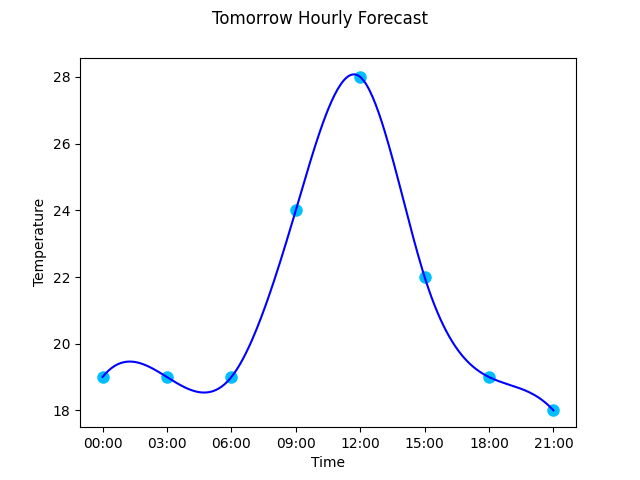
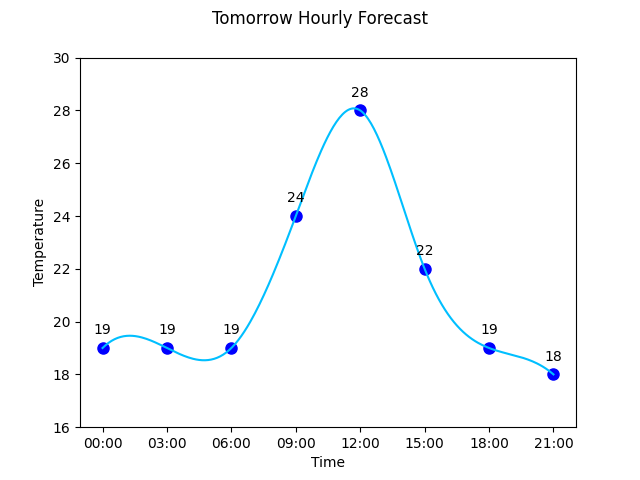
Update forecast line charts in more beautiful way.

diff --git a/image_converter.py b/image_converter.py
@@ -31,9 +31,17 @@ class ImageConverter:
         spl = make_interp_spline(idx, self.data['temperature'], k=3)
         smooth = spl(xnew)
 
-        plt.plot(self.data['time'], self.data['temperature'], 'o', color='#00BFFF', markersize=8)
-        plt.plot(xnew, smooth, color='blue', linestyle='solid')
+        plt.plot(self.data['time'], self.data['temperature'], 'o', color='blue', markersize=8)
+        for x, y in zip(self.data['time'], self.data['temperature']):
+            label = y
+            plt.annotate(label, (x, y),
+                         xycoords="data",
+                         textcoords="offset points",
+                         xytext=(0, 10), ha="center")
+
+        plt.plot(xnew, smooth, color='#00BFFF', linestyle='solid')
         plt.xticks(idx, self.data['time'])
+        plt.ylim(min(self.data['temperature'])-2, max(self.data['temperature'])+2)
         plt.savefig('Forecasts/Today_forecast.png')
         plt.clf()
 
@@ -49,9 +57,17 @@ class ImageConverter:
         spl = make_interp_spline(idx, self.data['temperature'], k=3)
         smooth = spl(xnew)
 
-        plt.plot(self.data['time'], self.data['temperature'], 'o', color='#00BFFF', markersize=8)
-        plt.plot(xnew, smooth, color='blue', linestyle='solid')
+        plt.plot(self.data['time'], self.data['temperature'], 'o', color='blue', markersize=8)
+        for x, y in zip(self.data['time'], self.data['temperature']):
+            label = y
+            plt.annotate(label, (x, y),
+                         xycoords="data",
+                         textcoords="offset points",
+                         xytext=(0, 10), ha="center")
+
+        plt.plot(xnew, smooth, color='#00BFFF', linestyle='solid')
         plt.xticks(idx, self.data['time'])
+        plt.ylim(min(self.data['temperature'])-2, max(self.data['temperature'])+2)
         plt.savefig('Forecasts/Tomorrow_forecast.png')
         plt.clf()
 
@@ -67,8 +83,16 @@ class ImageConverter:
         spl = make_interp_spline(idx, self.data['temperature'], k=3)
         smooth = spl(xnew)
 
-        plt.plot(self.data['time'], self.data['temperature'], 'o', color='#00BFFF', markersize=8)
-        plt.plot(xnew, smooth, color='blue', linestyle='solid')
+        plt.plot(self.data['time'], self.data['temperature'], 'o', color='blue', markersize=8)
+        for x, y in zip(self.data['time'], self.data['temperature']):
+            label = y
+            plt.annotate(label, (x, y),
+                         xycoords="data",
+                         textcoords="offset points",
+                         xytext=(0, 10), ha="center")
+
+        plt.plot(xnew, smooth, color='#00BFFF', linestyle='solid')
         plt.xticks(idx, self.data['time'])
+        plt.ylim(min(self.data['temperature'])-2, max(self.data['temperature'])+2)
         plt.savefig('Forecasts/Day_After_Tomorrow_forecast.png')
         plt.clf()
